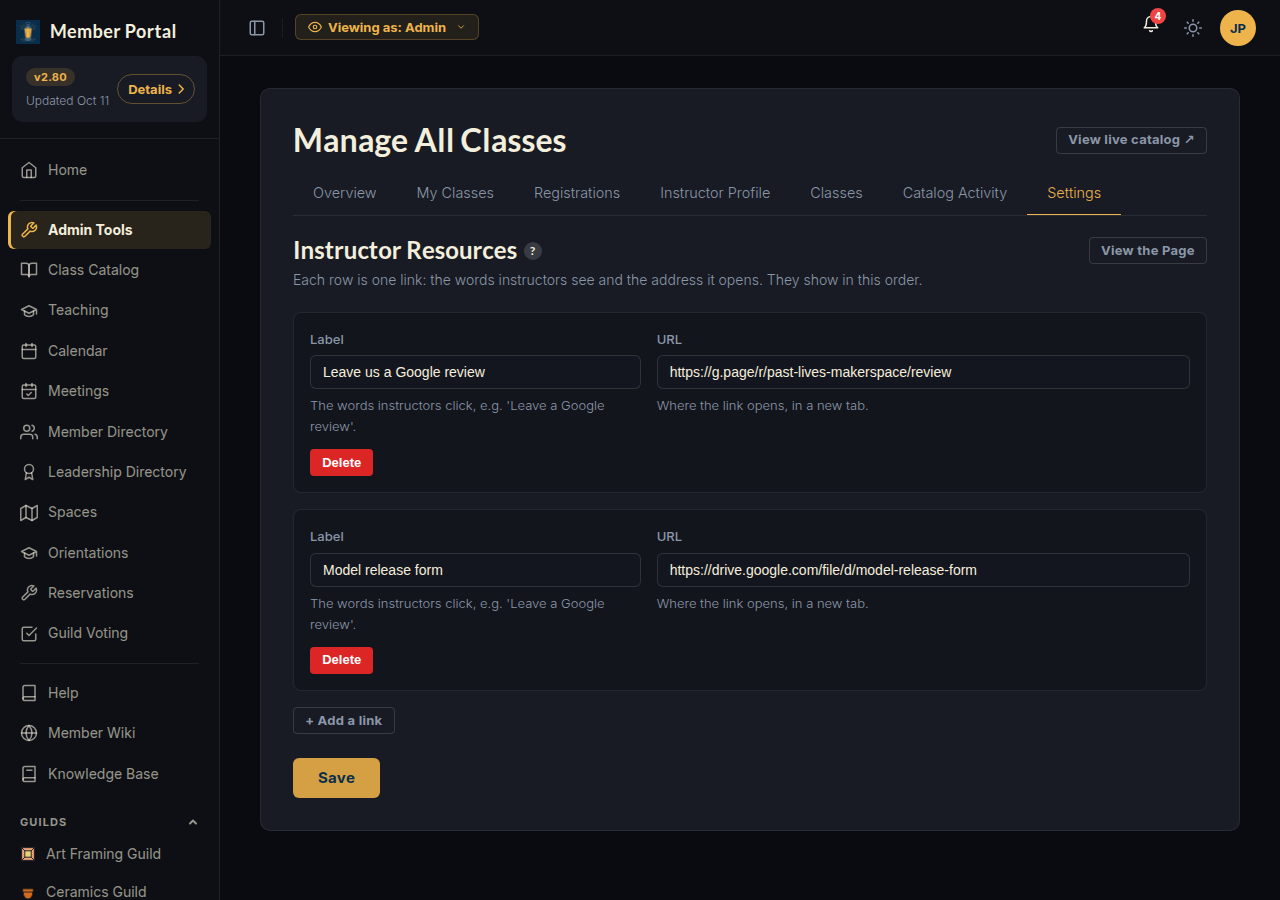
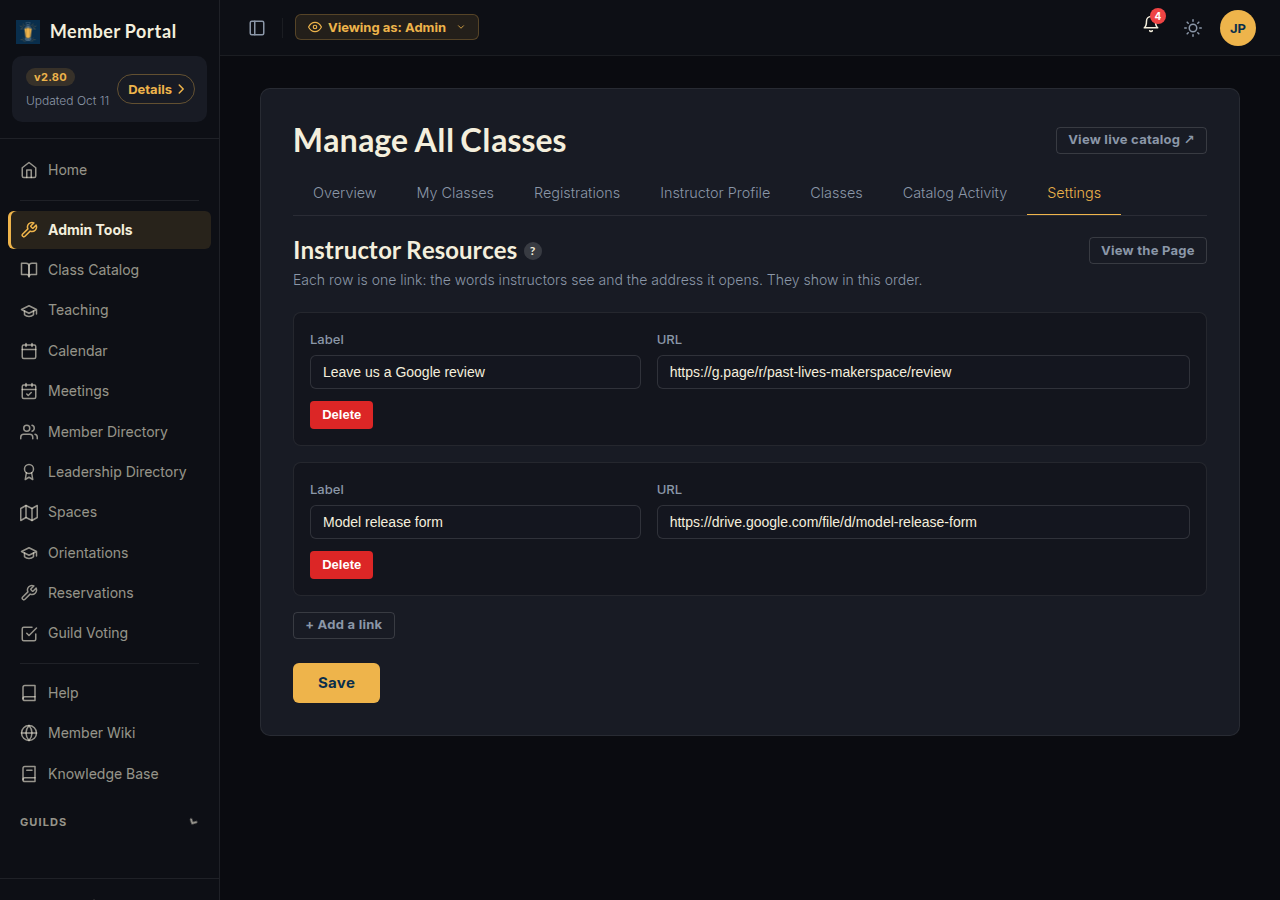
A link added and removed again before Save no longer blocks the save (#770)
Remove drops the cloned row from the page but TOTAL_FORMS still counts it,
so Django rebuilt it from nothing and its hidden sort_order read as changed,
which turned the missing row into two required errors with no button to
dismiss them. The form now treats a new row that posted neither a label nor
a URL as unchanged. A new row that comes back with an error gets a Remove
button, like the clone it was. The row hints are off; the intro line says
the same thing. The two "last on the page" assertions anchor on the card
headings that precede it instead of the first link occurrence.

Claude-Session: https://claude.ai/code/session_014B75irBP3U38dV79A44A2P

diff --git a/templates/classes/admin/instructor_resources.html b/templates/classes/admin/instructor_resources.html
@@ -28,8 +28,8 @@ posted in, so the hidden sort_order inputs only carry the row along.
         {% for f in formset %}
         <div class="pl-instructor-resources__row">
             <div class="pl-instructor-resources__fields">
-                <div class="pl-instructor-resources__label">{% include "components/form_field.html" with field=f.label %}</div>
-                <div class="pl-instructor-resources__url">{% include "components/form_field.html" with field=f.url %}</div>
+                <div class="pl-instructor-resources__label">{% include "components/form_field.html" with field=f.label field_hint_off=True %}</div>
+                <div class="pl-instructor-resources__url">{% include "components/form_field.html" with field=f.url field_hint_off=True %}</div>
             </div>
             {% if f.instance.pk %}
             <div hidden>{{ f.DELETE }}</div>
@@ -37,6 +37,9 @@ posted in, so the hidden sort_order inputs only carry the row along.
                     onclick="document.getElementById('{{ f.DELETE.id_for_label }}').checked = true; this.form.requestSubmit();">
                 Delete
             </button>
+            {% else %}
+            {# A new row back on the page with an error: still unsaved, so Remove only drops it. #}
+            <button type="button" class="pl-btn pl-btn--danger pl-btn--sm pl-btn--spaced" onclick="this.closest('.pl-instructor-resources__row').remove();">Remove</button>
             {% endif %}
             {{ f.id }}
             {{ f.sort_order }}
@@ -51,8 +54,8 @@ posted in, so the hidden sort_order inputs only carry the row along.
         <div class="pl-instructor-resources__row">
             {% with formset.empty_form as ef %}
             <div class="pl-instructor-resources__fields">
-                <div class="pl-instructor-resources__label">{% include "components/form_field.html" with field=ef.label %}</div>
-                <div class="pl-instructor-resources__url">{% include "components/form_field.html" with field=ef.url %}</div>
+                <div class="pl-instructor-resources__label">{% include "components/form_field.html" with field=ef.label field_hint_off=True %}</div>
+                <div class="pl-instructor-resources__url">{% include "components/form_field.html" with field=ef.url field_hint_off=True %}</div>
             </div>
             {{ ef.id }}
             {{ ef.sort_order }}

diff --git a/classes/spec/views/admin_instructor_resources_spec.py b/classes/spec/views/admin_instructor_resources_spec.py
@@ -207,7 +207,32 @@ def describe_admin_instructor_resources():
             assert InstructorResource.objects.count() == 3
             assert InstructorResource.objects.get(pk=first.pk).sort_order == 0
 
+        def it_ignores_an_added_row_removed_again_before_save(admin_user, client, db):
+            # Remove drops the row from the page, but TOTAL_FORMS still counts it, so the
+            # post carries no keys at all for index 1.
+            first, _second, _third = _three_saved()
+            client.force_login(admin_user)
+            payload = {**_post(_saved_row(first, 0), initial=1), f"{PREFIX}-TOTAL_FORMS": "2"}
+            assert client.post(reverse(URL_NAME), payload).status_code == 302
+            assert InstructorResource.objects.count() == 3
+            assert InstructorResource.objects.get(pk=first.pk).sort_order == 0
+
     def describe_validation():
+        def it_offers_remove_not_delete_on_a_new_row_that_failed_to_save(admin_user, client, db):
+            client.force_login(admin_user)
+            payload = _post(_row(0, "Hosting Guide", ""), initial=0)
+            response = client.post(reverse(URL_NAME), payload)
+            assert response.status_code == 200
+            content = response.content.decode()
+            row = (
+                content.split('name="links-0-label"')[1]
+                .split("</template>")[0]
+                .split('class="pl-instructor-resources__row"')[0]
+            )
+            assert ">Remove</button>" in row
+            assert ">Delete</button>" not in content
+            assert InstructorResource.objects.count() == 0
+
         def it_rejects_a_blank_label_with_the_error_under_the_field_and_saves_nothing(admin_user, client, db):
             first, second, third = _three_saved()
             client.force_login(admin_user)

diff --git a/classes/spec/views/teach_overview_spec.py b/classes/spec/views/teach_overview_spec.py
@@ -364,7 +364,8 @@ def describe_instructor_resources_card():
         assert review < release
         assert card.count("pl-instructor-resources-card__row") == 2
         # Last on the page: after the dashboard's final card.
-        assert html.index('href="https://g.page/review-us"') > html.index(reverse("classes:teach_registrations"))
+        # Last on the page: after the dashboard's final card, Recent Sign-Ups.
+        assert html.index('href="https://g.page/review-us"') > html.index("Recent Sign-Ups</h2>")
 
     def it_shows_the_card_last_for_a_teacher_with_no_classes(instructor_fixture, client):
         _two_links()
@@ -373,7 +374,8 @@ def describe_instructor_resources_card():
         html = resp.content.decode()
         assert resp.context["has_classes"] is False
         assert html.count(CARD) == 1
-        assert html.index(CARD) > html.index(reverse("classes:teach_class_create"))
+        # Last on the page: after the Teach Your First Class card.
+        assert html.index(CARD) > html.index("Teach Your First Class</h2>")
         assert 'href="https://g.page/review-us" target="_blank" rel="noopener"' in html
         assert 'href="https://forms.example.com/release" target="_blank" rel="noopener"' in html
 

diff --git a/classes/forms.py b/classes/forms.py
@@ -2359,6 +2359,18 @@ class InstructorResourceForm(forms.ModelForm):
         labels = {"url": "URL"}
         widgets = {"sort_order": forms.HiddenInput()}
 
+    def has_changed(self) -> bool:
+        """A row added with "+ Add a link" and removed again before Save never changed anything.
+
+        Remove drops the row from the page but TOTAL_FORMS still counts it, so Django builds
+        the form with no posted keys at all. Its hidden ``sort_order`` then reads as changed
+        (initial 0, nothing posted), which turns the missing row into two required errors the
+        admin cannot dismiss. A new row that posted neither a label nor a URL is that row.
+        """
+        if self.instance._state.adding and not any(self.data.get(self.add_prefix(name)) for name in ("label", "url")):
+            return False
+        return super().has_changed()
+
 
 class BaseInstructorResourceFormSet(forms.BaseModelFormSet):
     """The Instructor Resources editor: every row kept is numbered by its place on the page."""
